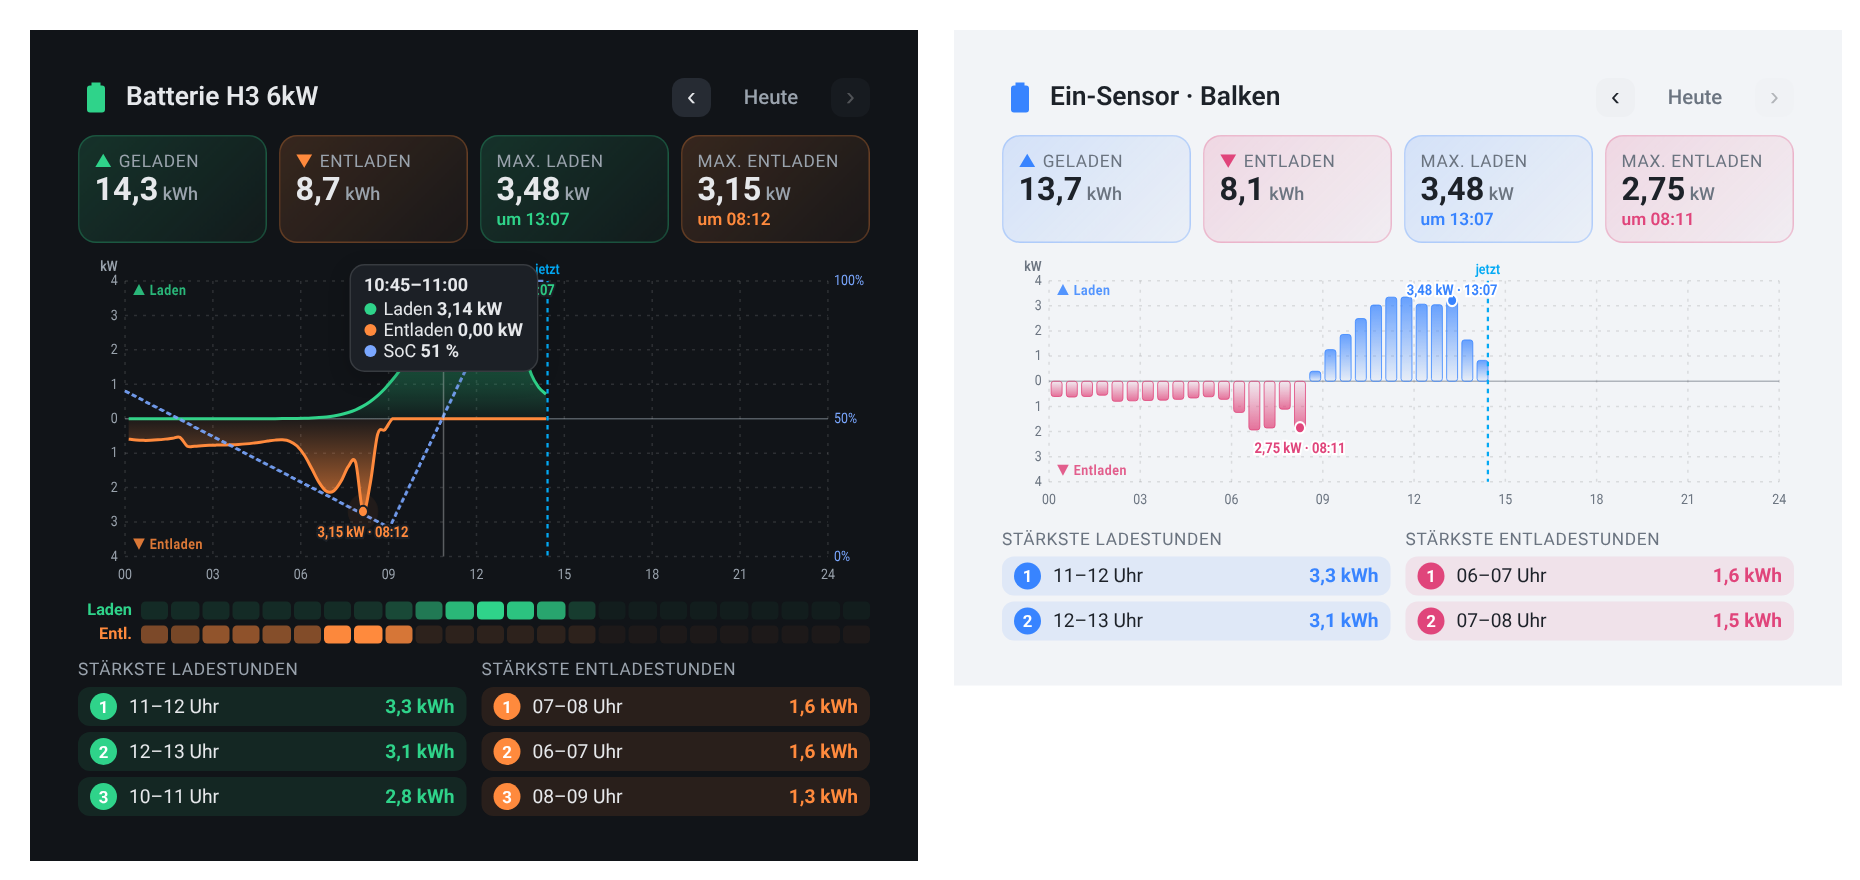
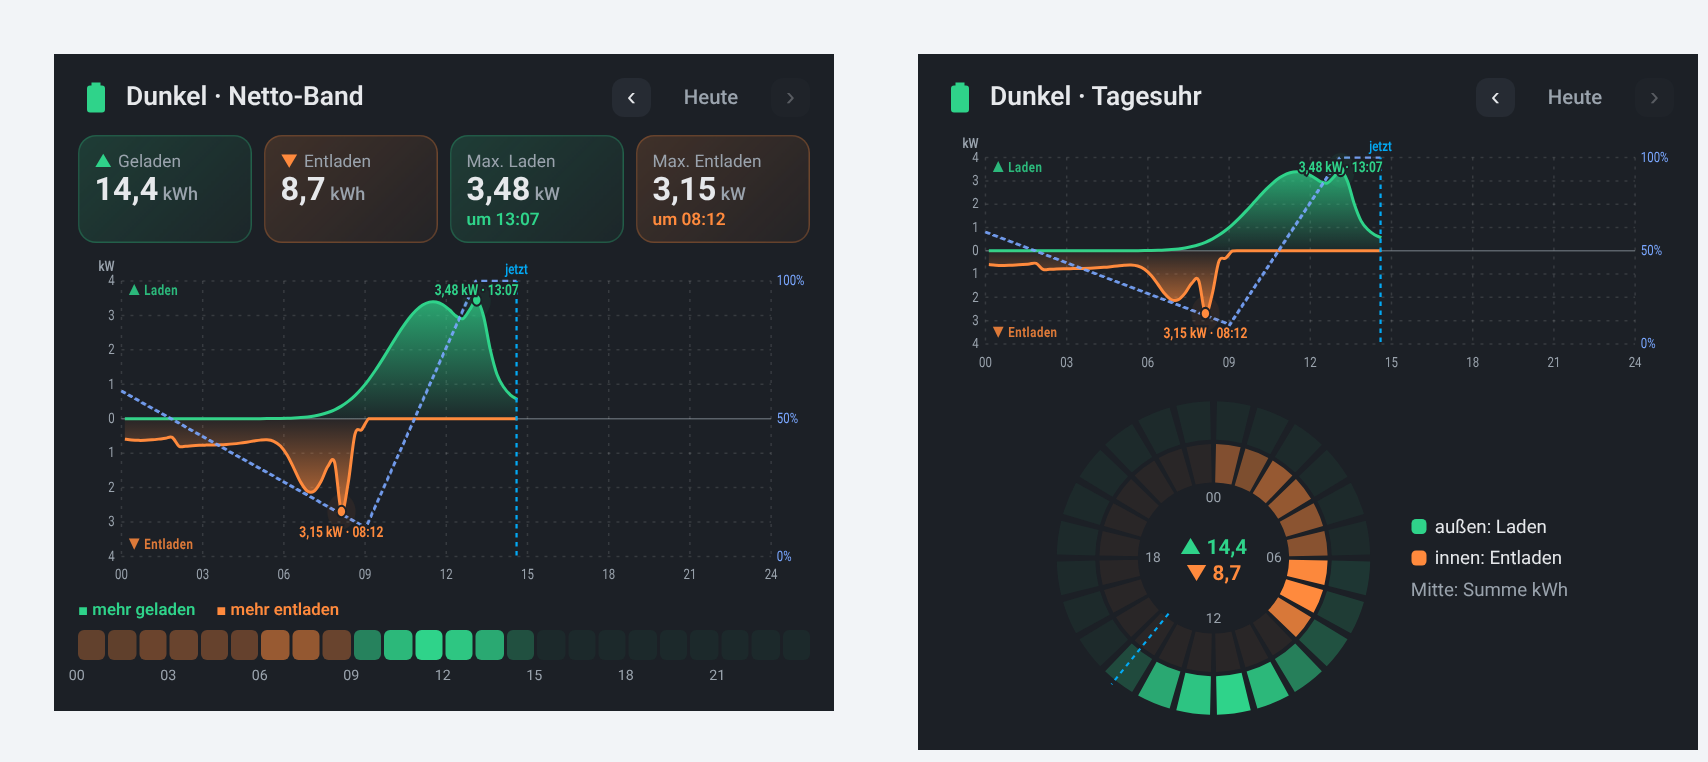
v1.2.0: Heatmap-Stile (Kachelreihen, Netto-Band, Tagesuhr) und Farbschema Dunkel/Hell
Claude-Session: https://claude.ai/code/session_01QFZMPWSde8E1bLN8kfrZaW

diff --git a/battery-day-card.js b/battery-day-card.js
@@ -3,7 +3,7 @@
  * Zeigt Laden / Entladen der Batterie über den Tag, Spitzen und Top-Stunden.
  * https://github.com/muhkuh666/battery-day-card
  */
-const CARD_VERSION = "1.1.0";
+const CARD_VERSION = "1.2.0";
 
 const DEFAULTS = {
   // Sensoren
@@ -33,9 +33,11 @@ const DEFAULTS = {
   // Bereiche
   show_stats: true,
   show_heatmap: true,
+  heatmap_style: "rows", // rows | net | clock
   show_top: true,
   top_count: 3,
   // Farben
+  theme: "auto", // auto | dark | light
   charge_color: "#2fd38a",
   discharge_color: "#ff8a3d",
   soc_color: "#7aa7ff",
@@ -151,7 +153,7 @@ class BatteryDayCard extends HTMLElement {
 
   getCardSize() {
     const c = this._config || DEFAULTS;
-    return Math.ceil(c.chart_height / 50) + (c.show_stats ? 2 : 0) + (c.show_top ? 2 : 0) + (c.show_heatmap ? 1 : 0) + 1;
+    return Math.ceil(c.chart_height / 50) + (c.show_stats ? 2 : 0) + (c.show_top ? 2 : 0) + (c.show_heatmap ? (c.heatmap_style === "clock" ? 5 : 1) : 0) + 1;
   }
 
   getGridOptions() {
@@ -512,18 +514,94 @@ class BatteryDayCard extends HTMLElement {
   }
 
   _heat(d) {
+    const style = this._config.heatmap_style;
+    if (style === "net") return this._heatNet(d);
+    if (style === "clock") return this._heatClock(d);
+    return this._heatRows(d);
+  }
+
+  _hourAxis(indent) {
+    const spans = Array.from({ length: 24 }, (_, h) => `<span>${h % 3 === 0 ? pad(h) : ""}</span>`).join("");
+    return `<div class="hax${indent ? " indent" : ""}">${spans}</div>`;
+  }
+
+  _hourTitle(h, ch, dis) {
+    return `${pad(h)}–${pad(h + 1)} Uhr · ▲ ${fmtKWh(ch)} kWh · ▼ ${fmtKWh(dis)} kWh`;
+  }
+
+  /** Variante A: zwei Kachelreihen */
+  _heatRows(d) {
     const c = this._config;
+    const ch = d.charge.hourly, dis = d.discharge.hourly;
     const row = (arr, color, label) => {
       const max = Math.max(...arr, 0.001);
       const cells = arr
         .map((e, h) => {
-          const a = e > 0 ? 0.12 + 0.88 * (e / max) : 0.05;
-          return `<div class="cell" style="background:${alpha(color, a)}" title="${pad(h)}–${pad(h + 1)} Uhr: ${fmtKWh(e)} kWh"></div>`;
+          const a = e > 0.005 ? 0.12 + 0.88 * (e / max) : 0.05;
+          return `<div class="cell" style="background:${alpha(color, a)}" title="${this._hourTitle(h, ch[h], dis[h])}"></div>`;
         })
         .join("");
       return `<div class="hrow"><span class="hl" style="color:${color}">${label}</span><div class="cells">${cells}</div></div>`;
     };
-    return `<div class="heat">${row(d.charge.hourly, c.charge_color, "Laden")}${row(d.discharge.hourly, c.discharge_color, "Entl.")}</div>`;
+    return `<div class="heat">${row(ch, c.charge_color, "Laden")}${row(dis, c.discharge_color, "Entl.")}${this._hourAxis(true)}</div>`;
+  }
+
+  /** Variante B: Netto-Band – pro Stunde gewinnt die stärkere Richtung */
+  _heatNet(d) {
+    const c = this._config;
+    const ch = d.charge.hourly, dis = d.discharge.hourly;
+    const max = Math.max(...ch.map((e, h) => Math.abs(e - dis[h])), 0.001);
+    const cells = ch
+      .map((e, h) => {
+        const net = e - dis[h];
+        const col = net >= 0 ? c.charge_color : c.discharge_color;
+        const a = Math.abs(net) > 0.005 ? 0.15 + 0.85 * (Math.abs(net) / max) : 0.05;
+        return `<div class="cell net" style="background:${alpha(col, a)}" title="${this._hourTitle(h, e, dis[h])} · netto ${net >= 0 ? "+" : "−"}${fmtKWh(Math.abs(net))} kWh"></div>`;
+      })
+      .join("");
+    return `<div class="heat">
+      <div class="netlegend"><span style="color:${c.charge_color}">■ mehr geladen</span><span style="color:${c.discharge_color}">■ mehr entladen</span></div>
+      <div class="cells">${cells}</div>${this._hourAxis(false)}</div>`;
+  }
+
+  /** Variante F: Tagesuhr – 24-h-Ring, außen Laden, innen Entladen */
+  _heatClock(d) {
+    const c = this._config;
+    const ch = d.charge.hourly, dis = d.discharge.hourly;
+    const mc = Math.max(...ch, 0.001), md = Math.max(...dis, 0.001);
+    const S = 240, cx = S / 2, cy = S / 2;
+    const P = (r, a) => [cx + r * Math.sin(a), cy - r * Math.cos(a)];
+    const arc = (r1, r2, a0, a1) => {
+      const [x1, y1] = P(r2, a0), [x2, y2] = P(r2, a1), [x3, y3] = P(r1, a1), [x4, y4] = P(r1, a0);
+      return `M${x1},${y1}A${r2},${r2} 0 0 1 ${x2},${y2}L${x3},${y3}A${r1},${r1} 0 0 0 ${x4},${y4}Z`;
+    };
+    let s = "";
+    for (let h = 0; h < 24; h++) {
+      const a0 = (h / 24) * 2 * Math.PI + 0.022, a1 = ((h + 1) / 24) * 2 * Math.PI - 0.022;
+      const ac = ch[h] > 0.005 ? 0.12 + 0.88 * (ch[h] / mc) : 0.06;
+      const ad = dis[h] > 0.005 ? 0.12 + 0.88 * (dis[h] / md) : 0.06;
+      const t = `<title>${this._hourTitle(h, ch[h], dis[h])}</title>`;
+      s += `<path d="${arc(86, 114, a0, a1)}" fill="${alpha(c.charge_color, ac)}">${t}</path>`;
+      s += `<path d="${arc(55, 83, a0, a1)}" fill="${alpha(c.discharge_color, ad)}">${t}</path>`;
+    }
+    for (const h of [0, 6, 12, 18]) {
+      const [x, y] = P(44, (h / 24) * 2 * Math.PI);
+      s += `<text x="${x}" y="${y + 3}" class="ax" text-anchor="middle">${pad(h)}</text>`;
+    }
+    if (this._dayOffset === 0) {
+      const a = ((Date.now() - d.dayStart) / DAY_MS) * 2 * Math.PI;
+      const [x1, y1] = P(52, a), [x2, y2] = P(118, a);
+      s += `<line x1="${x1}" y1="${y1}" x2="${x2}" y2="${y2}" class="now"/>`;
+    }
+    s += `<text x="${cx}" y="${cy - 3}" text-anchor="middle" class="ctot" style="fill:${c.charge_color}">▲ ${fmtKWh(d.charge.total)}</text>`;
+    s += `<text x="${cx}" y="${cy + 16}" text-anchor="middle" class="ctot" style="fill:${c.discharge_color}">▼ ${fmtKWh(d.discharge.total)}</text>`;
+    return `<div class="heat clock">
+      <svg viewBox="0 0 ${S} ${S}" class="clocksvg">${s}</svg>
+      <div class="clocklegend">
+        <span><i style="background:${c.charge_color}"></i>außen: Laden</span>
+        <span><i style="background:${c.discharge_color}"></i>innen: Entladen</span>
+        <span class="muted">Mitte: Summe kWh</span>
+      </div></div>`;
   }
 
   _top(label, hourly, color) {
@@ -585,9 +663,23 @@ class BatteryDayCard extends HTMLElement {
     hit.addEventListener("touchend", leave);
   }
 
+  _themeCss() {
+    const t = this._config.theme;
+    if (t === "dark")
+      return `:host { --primary-text-color:#e6e8eb; --secondary-text-color:#9aa3ad; --card-background-color:#1c2026;
+        --ha-card-background:#1c2026; --divider-color:rgba(255,255,255,.12); --secondary-background-color:#262b33; color-scheme:dark; }
+        ha-card { background:#1c2026 !important; color:#e6e8eb; }`;
+    if (t === "light")
+      return `:host { --primary-text-color:#1d2229; --secondary-text-color:#6b7480; --card-background-color:#ffffff;
+        --ha-card-background:#ffffff; --divider-color:rgba(0,0,0,.1); --secondary-background-color:#eef0f3; color-scheme:light; }
+        ha-card { background:#ffffff !important; color:#1d2229; }`;
+    return "";
+  }
+
   _css() {
     const c = this._config;
     return `
+      ${this._themeCss()}
       :host { display:block; --bdc-charge:${c.charge_color}; --bdc-dis:${c.discharge_color}; --bdc-soc:${c.soc_color}; --bdc-now:${c.now_color}; }
       ha-card { display:block; padding:16px 16px 14px; overflow:hidden; height:100%; box-sizing:border-box; }
       .head { display:flex; align-items:center; justify-content:space-between; margin-bottom:12px; gap:8px; }
@@ -605,7 +697,8 @@ class BatteryDayCard extends HTMLElement {
       .stat { padding:9px 10px 8px; border-radius:12px; min-width:0;
         background:linear-gradient(135deg, color-mix(in srgb, var(--c) 16%, transparent), color-mix(in srgb, var(--c) 4%, transparent));
         border:1px solid color-mix(in srgb, var(--c) 25%, transparent); }
-      .lbl { font-size:.72rem; color:var(--secondary-text-color); text-transform:uppercase; letter-spacing:.04em; white-space:nowrap; overflow:hidden; text-overflow:ellipsis; }
+      .lbl { font-size:.68rem; color:var(--secondary-text-color); text-transform:uppercase; letter-spacing:.02em; white-space:nowrap; overflow:hidden; text-overflow:ellipsis; }
+      @container (max-width:540px){ .lbl{ text-transform:none; letter-spacing:0; font-size:.72rem; } }
       .arr { color:var(--c); margin-right:4px; }
       .val { font-size:1.35rem; font-weight:700; color:var(--primary-text-color); font-variant-numeric:tabular-nums; }
       .val small { font-size:.75rem; font-weight:500; margin-left:3px; color:var(--secondary-text-color); }
@@ -637,6 +730,17 @@ class BatteryDayCard extends HTMLElement {
       .hl { width:36px; font-size:.68rem; font-weight:700; text-align:right; flex:none; }
       .cells { flex:1; display:grid; grid-template-columns:repeat(24,1fr); gap:2px; }
       .cell { height:12px; border-radius:3px; }
+      .cell.net { height:20px; border-radius:4px; }
+      .hax { display:grid; grid-template-columns:repeat(24,1fr); font-size:9.5px; color:var(--secondary-text-color); margin-top:2px; }
+      .hax span { text-align:left; transform:translateX(-30%); }
+      .hax.indent { margin-left:42px; }
+      .netlegend { display:flex; gap:14px; font-size:.7rem; font-weight:600; margin-bottom:4px; }
+      .heat.clock { flex-direction:row; align-items:center; justify-content:center; gap:22px; margin:12px 0 4px; flex-wrap:wrap; }
+      .clocksvg { width:220px; height:220px; flex:none; overflow:visible; }
+      .ctot { font-size:15px; font-weight:700; font-variant-numeric:tabular-nums; }
+      .clocklegend { display:flex; flex-direction:column; gap:6px; font-size:.78rem; color:var(--primary-text-color); }
+      .clocklegend i { display:inline-block; width:10px; height:10px; border-radius:3px; margin-right:6px; vertical-align:-1px; }
+      .clocklegend .muted { color:var(--secondary-text-color); }
       .tops { display:grid; grid-template-columns:1fr 1fr; gap:10px; margin-top:10px; }
       .tl { font-size:.72rem; text-transform:uppercase; letter-spacing:.04em; color:var(--secondary-text-color); margin-bottom:5px; }
       .chips { display:flex; flex-direction:column; gap:4px; }
@@ -677,6 +781,8 @@ const LABELS = {
   show_soc: "SoC-Linie anzeigen",
   show_stats: "Kennzahlen (kWh / Spitzen)",
   show_heatmap: "Stunden-Heatmap",
+  heatmap_style: "Heatmap-Stil",
+  theme: "Farbschema",
   show_top: "Top-Stunden",
   top_count: "Anzahl Top-Stunden",
   charge_color: "Farbe Laden",
@@ -690,6 +796,7 @@ const HELPERS = {
   power_entity: "Positiv = Laden, negativ = Entladen (umkehrbar).",
   unit_mode: "Automatisch erkennt W/kW (Leistung) und Wh/kWh (Zähler) an der Einheit.",
   y_max: "Praktisch, um mehrere Tage vergleichbar zu machen.",
+  theme: "Automatisch übernimmt dein Home-Assistant-Theme, Dunkel/Hell erzwingt das Schema nur für diese Karte.",
 };
 
 class BatteryDayCardEditor extends HTMLElement {
@@ -795,6 +902,10 @@ class BatteryDayCardEditor extends HTMLElement {
               { name: "show_top", selector: { boolean: {} } },
             ],
           },
+          {
+            name: "heatmap_style",
+            selector: sel([["rows", "Zwei Kachelreihen (Laden / Entladen)"], ["net", "Netto-Band (eine Reihe)"], ["clock", "Tagesuhr (24-h-Ring)"]]),
+          },
           { name: "top_count", selector: { number: { min: 1, max: 8, step: 1, mode: "slider" } } },
         ],
       },
@@ -805,6 +916,7 @@ class BatteryDayCardEditor extends HTMLElement {
         title: "Farben",
         icon: "mdi:palette",
         schema: [
+          { name: "theme", selector: sel([["auto", "Automatisch (HA-Theme)"], ["dark", "Dunkel"], ["light", "Hell"]]) },
           {
             name: "",
             type: "grid",

diff --git a/README.md b/README.md
@@ -12,13 +12,14 @@ Lovelace-Karte für Home Assistant, die zeigt, **wann und wie stark deine Hausba
 - Gespiegeltes Tagesdiagramm: Laden nach oben, Entladen nach unten – als **Fläche** oder **Balken**
 - Tagessummen (kWh) und Maximalleistung mit Uhrzeit für Laden und Entladen
 - Markierte Spitzen im Diagramm, Tooltip beim Darüberfahren (inkl. SoC)
-- Stunden-Heatmap und Top-Stunden für Laden und Entladen
+- Stunden-Heatmap in drei Stilen: **Kachelreihen**, **Netto-Band** oder **Tagesuhr** (24-h-Ring)
+- Top-Stunden für Laden und Entladen
 - Tage zurückblättern (‹ ›)
 - Optional Ladezustand (SoC) als Linie
 - **Zwei Sensoren** (Laden + Entladen) **oder ein Sensor mit Vorzeichen** (+ Laden / − Entladen)
 - Leistungs- (W/kW) und Energiesensoren (Wh/kWh), automatisch erkannt
 - **Alles im grafischen Editor einstellbar** – mit Farbwählern und aufklappbaren Bereichen
-- Passt sich hellem und dunklem Theme an
+- Farbschema: automatisch (HA-Theme) oder fest **Dunkel** / **Hell**
 
 ## Installation
 
@@ -87,8 +88,10 @@ discharge_color: "#e0457b"
 | **Bereiche** | | |
 | `show_stats` | `true` | Kennzahlen (kWh / Max) |
 | `show_heatmap` | `true` | Stunden-Heatmap |
+| `heatmap_style` | `rows` | `rows` (zwei Kachelreihen), `net` (Netto-Band), `clock` (Tagesuhr) |
 | `show_top` | `true` | Top-Stunden |
 | `top_count` | `3` | Anzahl Top-Stunden (1–8) |
+| `theme` | `auto` | Farbschema: `auto` (HA-Theme), `dark`, `light` |
 | **Farben** | | Hex (`"#2fd38a"`), RGB-Liste (`[47, 211, 138]`) oder CSS-Variable (`var(--green-color)`) |
 | `charge_color` | `#2fd38a` | Laden |
 | `discharge_color` | `#ff8a3d` | Entladen |

diff --git a/.github/release-notes.md b/.github/release-notes.md
@@ -2,10 +2,10 @@ Lovelace-Karte für Home Assistant: Laden & Entladen der Batterie über den Tag,
 
 **Installation:** HACS → Benutzerdefinierte Repositories → `https://github.com/muhkuh666/battery-day-card` (Typ **Dashboard**)
 
-### Neu in v1.1.0
-- Alles im grafischen Editor einstellbar – aufklappbare Bereiche, echte Farbwähler
-- Ein-Sensor-Modus: ein Leistungssensor mit Vorzeichen (+ Laden / − Entladen), umkehrbar
-- Balkendiagramm als Alternative zur Fläche
-- Diagrammhöhe, feste kW-Skala, Glättung, Gitter, Spitzen-Animation, „jetzt“-Linie, SoC-Linie schaltbar
-- Kennzahlen, Heatmap und Top-Stunden einzeln ausblendbar, Anzahl Top-Stunden 1–8
-- Automatische Sensorerkennung beim Hinzufügen der Karte, SoC im Tooltip
+### Neu in v1.2.0
+- **Heatmap-Stil wählbar:** Kachelreihen (wie bisher), **Netto-Band** (pro Stunde gewinnt die stärkere Richtung) oder **Tagesuhr** (24-h-Ring mit Tagessummen in der Mitte und „jetzt“-Zeiger)
+- **Farbschema:** automatisch (HA-Theme) oder fest **Dunkel** / **Hell** – nur für diese Karte
+- Stundenachse unter der Heatmap, Tooltip mit Laden/Entladen/Netto je Stunde
+- Kennzahl-Beschriftungen werden bei schmalen Karten nicht mehr abgeschnitten
+
+Alle Optionen sind im grafischen Editor einstellbar.
